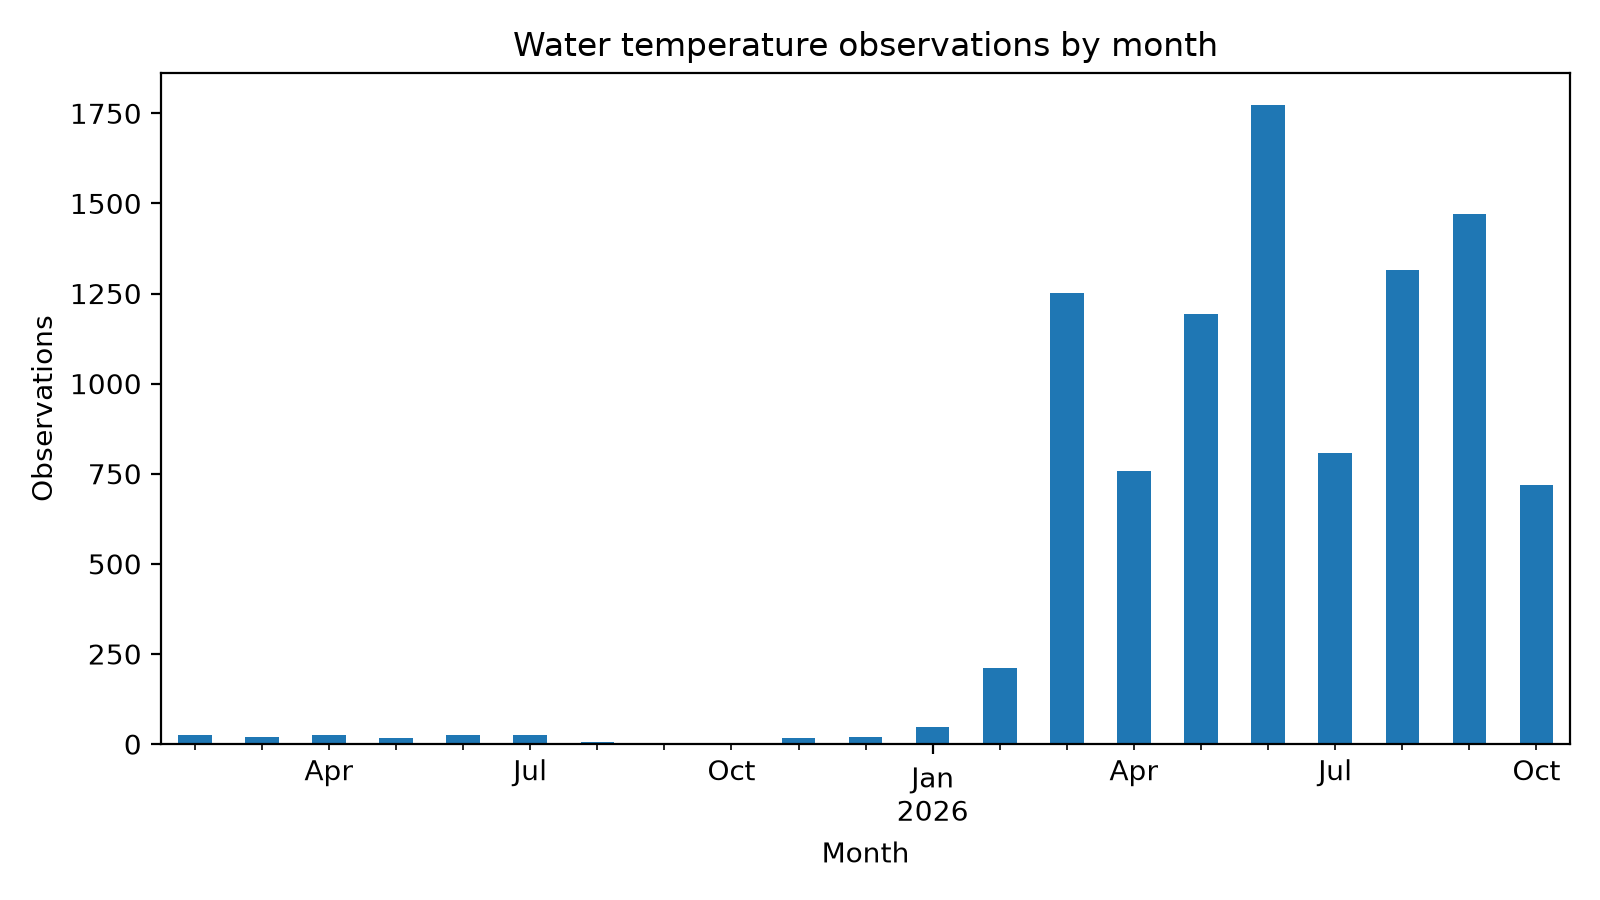
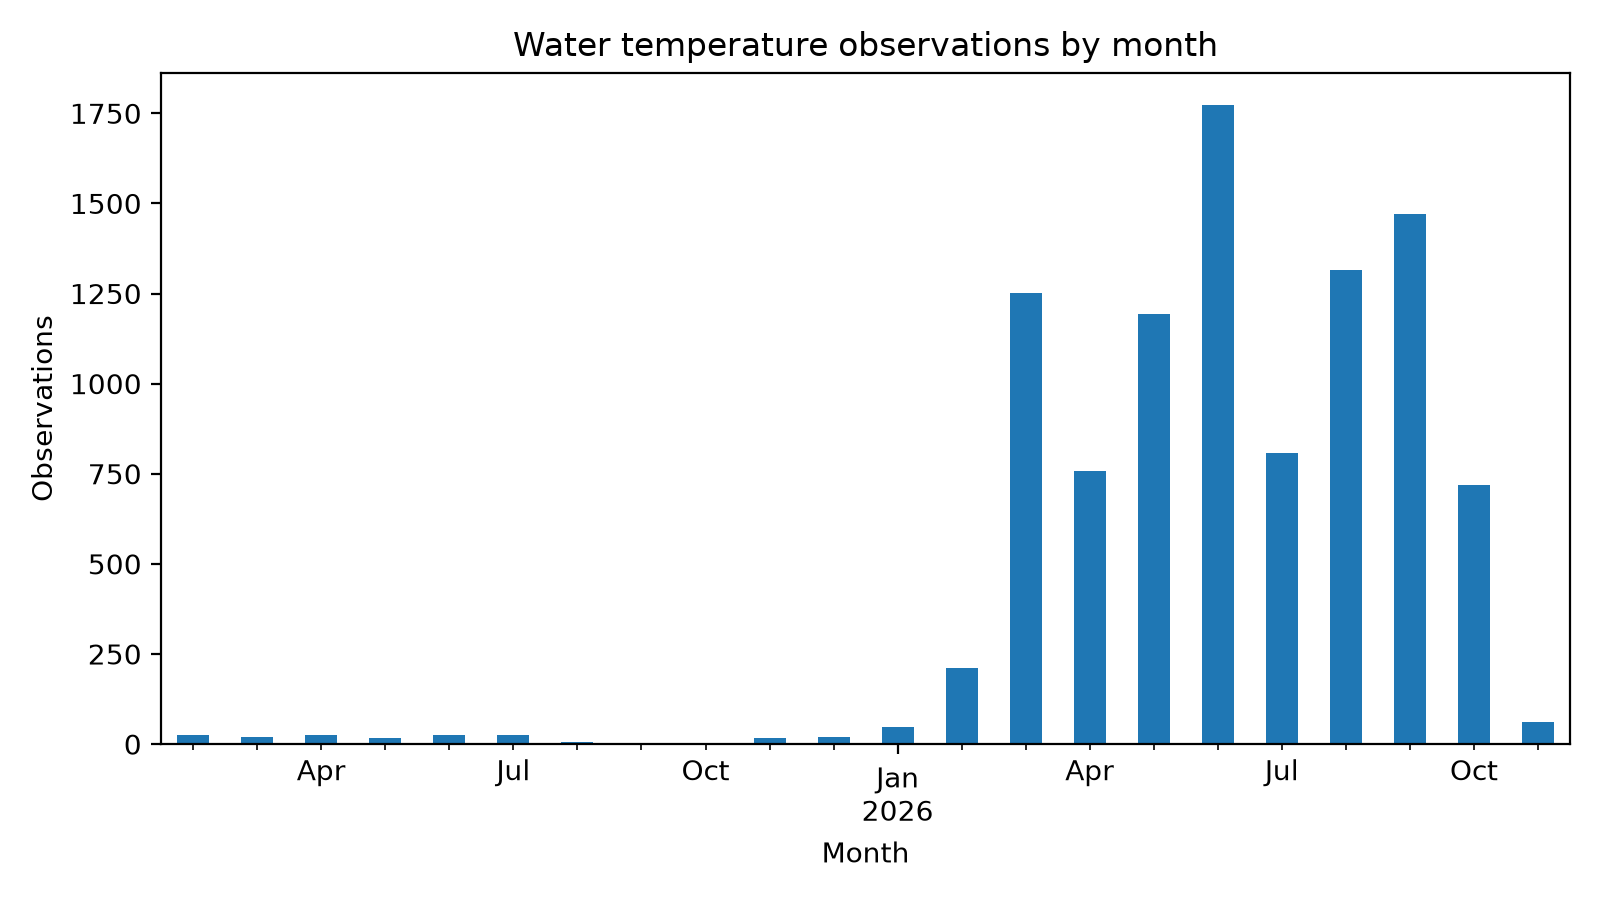
Add Apple Health merge step for smartwatch data and ipdate smartwatch report

diff --git a/smartwatch.html b/smartwatch.html
@@ -65,12 +65,12 @@ a {
 <h2>Dataset overview</h2>
 <table>
 <tr><th>Metric</th><th>Value</th></tr>
-<tr><td>Raw water temperature observations</td><td>9,723</td></tr>
-<tr><td>Observation period</td><td>2025-02-14 to 2026-10-31</td></tr>
-<tr><td>Sessions using 30-minute gap rule</td><td>320</td></tr>
+<tr><td>Raw water temperature observations</td><td>9,783</td></tr>
+<tr><td>Observation period</td><td>2025-02-14 to 2026-11-07</td></tr>
+<tr><td>Sessions using 30-minute gap rule</td><td>321</td></tr>
 <tr><td>Single-observation sessions</td><td>134</td></tr>
 <tr><td>Short sessions, 2–4 readings</td><td>12</td></tr>
-<tr><td>Continuous sessions, 5+ readings</td><td>174</td></tr>
+<tr><td>Continuous sessions, 5+ readings</td><td>175</td></tr>
 </table>
 </div>
 
@@ -78,17 +78,17 @@ a {
 <h2>Key findings</h2>
 
 <ul>
-<li><strong>9,723</strong> smartwatch water temperature observations were analysed.</li>
-<li>These observations formed <strong>320</strong> swim sessions using a 30-minute gap rule.</li>
-<li><strong>174 sessions (54.4%)</strong> contained five or more readings and provide sufficient observations to investigate stable temperature plateau detection. </li>
+<li><strong>9,783</strong> smartwatch water temperature observations were analysed.</li>
+<li>These observations formed <strong>321</strong> swim sessions using a 30-minute gap rule.</li>
+<li><strong>175 sessions (54.5%)</strong> contained five or more readings and provide sufficient observations to investigate stable temperature plateau detection. </li>
 <li>The median sampling interval was <strong>17.0 seconds</strong>, providing high temporal resolution within sessions.</li>
 <li>The data support deriving <strong>one representative temperature per swim session</strong>, rather than treating observations as independent temperature measurements.</li>
 </ul>
 
 <table>
 <tr><th>Finding</th><th>Value</th></tr>
-<tr><td>Average readings per session</td><td>30.4</td></tr>
-<tr><td>Readings ≥20°C</td><td>379 (3.9%)</td></tr>
+<tr><td>Average readings per session</td><td>30.5</td></tr>
+<tr><td>Readings ≥20°C</td><td>380 (3.9%)</td></tr>
 <tr><td>Readings ≥25°C</td><td>160 (1.6%)</td></tr>
 </table>
 
@@ -101,7 +101,7 @@ a {
 <tr><th>Metric</th><th>Value</th></tr>
 <tr><td>Minimum recorded temperature</td><td>5.46°C</td></tr>
 <tr><td>Maximum recorded temperature</td><td>41.97°C</td></tr>
-<tr><td>Readings ≥20°C</td><td>379</td></tr>
+<tr><td>Readings ≥20°C</td><td>380</td></tr>
 <tr><td>Readings ≥25°C</td><td>160</td></tr>
 </table>
 <img src="reports/charts/raw_temperature_observations.png" alt="Raw smartwatch water temperature observations">
@@ -112,7 +112,7 @@ a {
 <table>
 <tr><th>Metric</th><th>Value</th></tr>
 <tr><td>Median sampling interval</td><td>17.0 seconds</td></tr>
-<tr><td>Within-session intervals</td><td>9,403</td></tr>
+<tr><td>Within-session intervals</td><td>9,462</td></tr>
 </table>
 <img src="reports/charts/sampling_intervals.png" alt="Sampling interval distribution">
 </div>
@@ -122,7 +122,7 @@ a {
 
 <table>
 <tr><th>Metric</th><th>Value</th></tr>
-<tr><td>Median duration</td><td>8.5 minutes</td></tr>
+<tr><td>Median duration</td><td>8.6 minutes</td></tr>
 <tr><td>75th percentile</td><td>20.2 minutes</td></tr>
 <tr><td>95th percentile</td><td>31.8 minutes</td></tr>
 </table>
@@ -168,9 +168,9 @@ above are excluded before this analysis.
 
 <table>
 <tr><th>Metric</th><th>Value</th></tr>
-<tr><td>Sessions analysed for stability</td><td>170</td></tr>
-<tr><td>Sessions with provisional stable window</td><td>144 (84.7%)</td></tr>
-<tr><td>Median time to first stable window</td><td>3.0 minutes</td></tr>
+<tr><td>Sessions analysed for stability</td><td>171</td></tr>
+<tr><td>Sessions with provisional stable window</td><td>145 (84.8%)</td></tr>
+<tr><td>Median time to first stable window</td><td>3.1 minutes</td></tr>
 <tr><td>75th percentile time to stability</td><td>6.2 minutes</td></tr>
 <tr><td>90th percentile time to stability</td><td>9.3 minutes</td></tr>
 <tr><td>Median rolling 5-reading range</td><td>0.25°C</td></tr>
